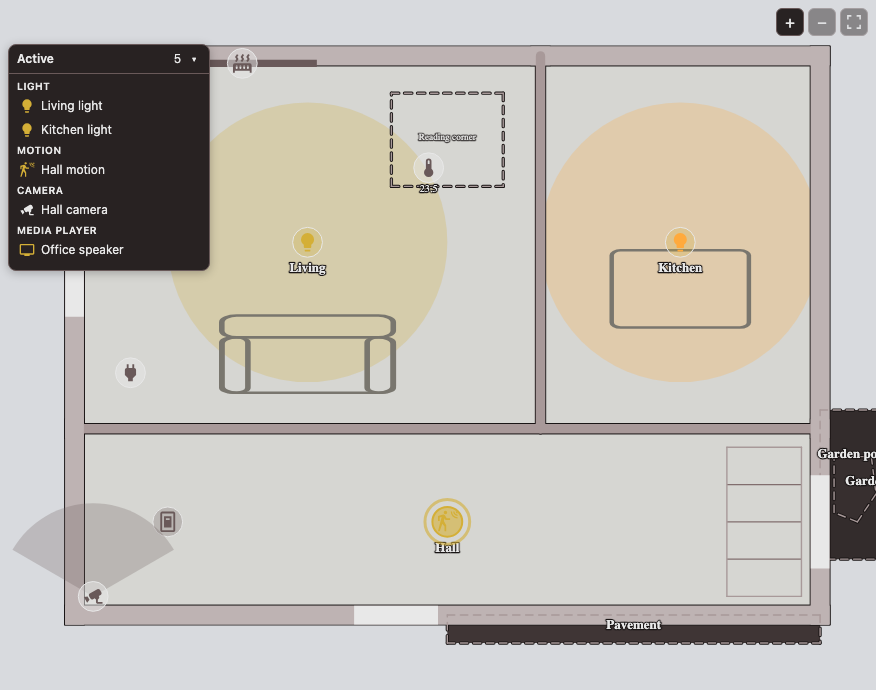
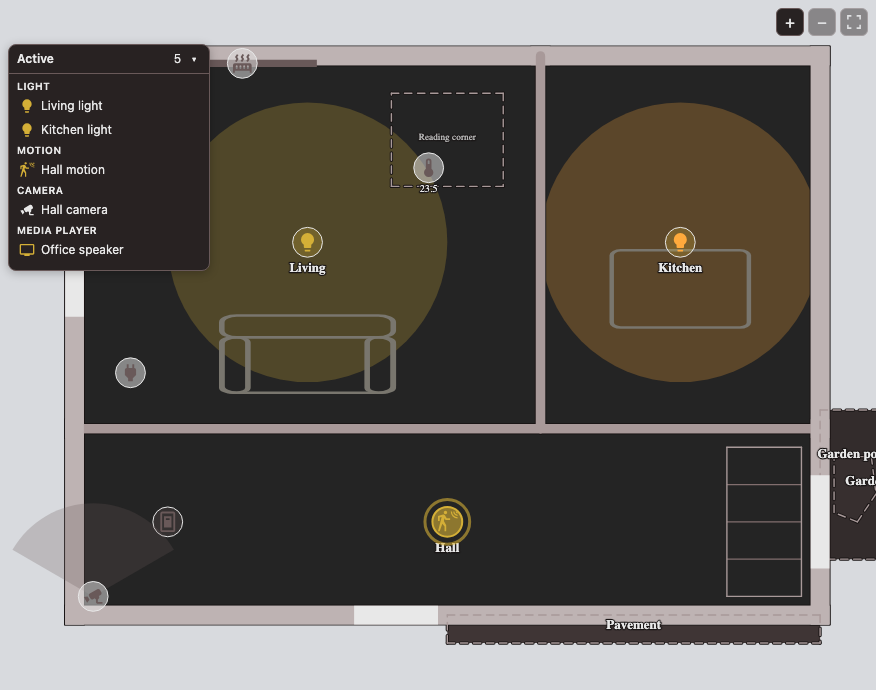
Dark roomEmpty for the four saturated dark themes, add beach-house
a-team, space, cyberpunk and carpenter-brut rendered their unpainted
rooms in the one shared light grey every theme has used since
2026-09-21 — against their own dark, saturated walls it read as a
hole punched through the plan. ThemeRoles gets an optional roomEmpty
override (default unchanged, so every existing theme keeps its
current look); each of the four now sets its own dark shade.

Also adds a thirteenth theme, beach-house: sand base, sea-teal grid,
palm-green accent. A light theme, so the shared grey was never a
problem for it.

docs/SPEC.md, README.md and docs/DECISIONS.md updated in the same
commit; scripts/theme-shots.mjs re-run for all thirteen themes.

diff --git a/src/core/render.ts b/src/core/render.ts
@@ -27,9 +27,9 @@ export interface RenderOpts {
 /** blueprint is the default and the look of the project; midnight is the project's first dark theme (2026-09-21), kept under
  * its own name once blueprint moved on to a new palette; light is the same plan on paper; slate and terminal are the other two
  * role-generated presets; solarized is the bespoke Solarized palette; ha takes its neutrals straight from Home Assistant's own
- * CSS variables; coffee, a-team, space, cyberpunk and carpenter-brut (2026-09-28, Diego's picks) are five more role-generated
- * presets, the same `rolesToTokens` four-colour system as blueprint/slate/terminal. */
-export const THEMES = ["blueprint", "midnight", "light", "slate", "terminal", "solarized", "ha", "coffee", "a-team", "space", "cyberpunk", "carpenter-brut"] as const;
+ * CSS variables; coffee, a-team, space, cyberpunk, carpenter-brut and beach-house (2026-09-28, Diego's picks) are six more
+ * role-generated presets, the same `rolesToTokens` four-colour system as blueprint/slate/terminal. */
+export const THEMES = ["blueprint", "midnight", "light", "slate", "terminal", "solarized", "ha", "coffee", "a-team", "space", "cyberpunk", "carpenter-brut", "beach-house"] as const;
 export type Theme = (typeof THEMES)[number];
 
 /** The `fill` attribute for a room or staircase that carries its own paint: a texture wins over a colour. Both are checked against a fixed list or a strict pattern, because the value goes into an attribute. */
@@ -73,11 +73,19 @@ const SLATE_TOKENS = rolesToTokens({ base: "#9a9a96", fg: "#2b2a27", fgAlpha: .5
 const TERMINAL_TOKENS = rolesToTokens({ base: "#0c1512", fg: "#35d47a", fgAlpha: .5, line: "#35d47a", accent: "#ffb000", dark: true });
 
 // Five more role-generated presets (2026-09-28, Diego's picks), the same four-colour system as the three above.
+// coffee's own base already carries a warm brown across bg/walls, so the default grey `roomEmpty` sits fine against
+// it; a-team/space/cyberpunk/carpenter-brut are dark and far more saturated, and the same fixed light grey read as a
+// hole punched in the plan (Diego, 2026-09-28) - each gets its own dark roomEmpty instead, a shade of its own base.
 const COFFEE_TOKENS = rolesToTokens({ base: "#2b1d14", fg: "#f3e5d0", fgAlpha: .5, line: "#a9713c", accent: "#f2a134", dark: true });
-const A_TEAM_TOKENS = rolesToTokens({ base: "#141414", fg: "#e8e8e8", fgAlpha: .5, line: "#cc1f1f", accent: "#d4af37", dark: true });
-const SPACE_TOKENS = rolesToTokens({ base: "#050814", fg: "#eaf2ff", fgAlpha: .5, line: "#4fd8ff", accent: "#b14aff", dark: true });
-const CYBERPUNK_TOKENS = rolesToTokens({ base: "#0b0014", fg: "#00e5ff", fgAlpha: .5, line: "#ff2bd6", accent: "#f9f002", dark: true });
-const CARPENTER_BRUT_TOKENS = rolesToTokens({ base: "#170406", fg: "#ffd9e8", fgAlpha: .5, line: "#8f1022", accent: "#ff2f6e", dark: true });
+const A_TEAM_TOKENS = rolesToTokens({ base: "#141414", fg: "#e8e8e8", fgAlpha: .5, line: "#cc1f1f", accent: "#d4af37", dark: true, roomEmpty: "#242424" });
+const SPACE_TOKENS = rolesToTokens({ base: "#050814", fg: "#eaf2ff", fgAlpha: .5, line: "#4fd8ff", accent: "#b14aff", dark: true, roomEmpty: "#141b33" });
+const CYBERPUNK_TOKENS = rolesToTokens({ base: "#0b0014", fg: "#00e5ff", fgAlpha: .5, line: "#ff2bd6", accent: "#f9f002", dark: true, roomEmpty: "#22093a" });
+const CARPENTER_BRUT_TOKENS = rolesToTokens({ base: "#170406", fg: "#ffd9e8", fgAlpha: .5, line: "#8f1022", accent: "#ff2f6e", dark: true, roomEmpty: "#2b0a10" });
+
+// beach-house (2026-09-28, Diego's pick): a light theme, sand for the base (bg through walls), sea teal for the
+// measurement line, palm-green as the one accent for anything "on". fg is a driftwood-dark brown-grey, enough
+// contrast on sand without going as stark as pure black ink.
+const BEACH_HOUSE_TOKENS = rolesToTokens({ base: "#e3cd9c", fg: "#3a3226", fgAlpha: .5, line: "#1a7a8a", accent: "#2f9e44", dark: false });
 
 /* Solarized (bespoke, not role-generated - Diego's call, 2026-09-22: real Solarized fidelity matters more here than reuse).
    The dark variant, base03 background, base1 body text; each device type keeps its own Solarized hue rather than collapsing
@@ -130,6 +138,7 @@ export const FLOORPLAN_CSS = `
 :host([data-theme="space"]),:host([data-theme="space"]) .fp,[data-theme="space"]{${SPACE_TOKENS}}
 :host([data-theme="cyberpunk"]),:host([data-theme="cyberpunk"]) .fp,[data-theme="cyberpunk"]{${CYBERPUNK_TOKENS}}
 :host([data-theme="carpenter-brut"]),:host([data-theme="carpenter-brut"]) .fp,[data-theme="carpenter-brut"]{${CARPENTER_BRUT_TOKENS}}
+:host([data-theme="beach-house"]),:host([data-theme="beach-house"]) .fp,[data-theme="beach-house"]{${BEACH_HOUSE_TOKENS}}
 /* A room with its own colour carries a fill attribute; the :not([fill]) rules let it show. The fill room keeps its hatch.
    Each kind also names its own fill as --fp-room-fill, so a later rule can tint the room without ever having to know,
    or replace, the colour underneath (Opus review: the glow and on rules below used to read straight from --fp-glow,

diff --git a/src/core/theme-roles.ts b/src/core/theme-roles.ts
@@ -7,7 +7,10 @@ import type { DeviceType } from "./schema";
  * "live" - on-state devices, the on-room ring, warnings, the primary action button. `dark` picks which end of the base ramp is
  * the background: true puts the darkest shade at the back (paper is `base`, lines are `fg`), false puts the lightest there.
  * `devices` overrides `accent` for specific device types, for a theme that wants its on-state colours to stay distinct instead
- * of collapsing to one; a type left out uses `accent`. */
+ * of collapsing to one; a type left out uses `accent`. `roomEmpty` overrides the "not yet painted" room fill (Diego's original
+ * call, 2026-09-21: the same light grey `#d6d6d2` in every theme); a saturated dark theme needs its own dark shade there
+ * instead, or the plain grey box reads as a hole against the theme's own dark walls (Diego, 2026-09-28). Left out, the
+ * classic grey still applies — only a theme that asks for it deviates. */
 export interface ThemeRoles {
   base: string;
   fg: string;
@@ -16,6 +19,7 @@ export interface ThemeRoles {
   accent: string;
   dark: boolean;
   devices?: Partial<Record<DeviceType, string>>;
+  roomEmpty?: string;
 }
 
 const clamp = (n: number, lo: number, hi: number) => Math.min(hi, Math.max(lo, n));
@@ -81,7 +85,7 @@ export function rolesToTokens(roles: ThemeRoles): string {
   const devFor = (t: DeviceType) => roles.devices?.[t] ?? roles.accent;
   const acCool = roles.devices?.ac ?? roles.accent, acHeat = roles.devices?.ac ?? roles.accent;
   return [
-    `--fp-ink:${roles.fg}`, `--fp-bg:${shades.bg}`, `--fp-room:${shades.room}`, `--fp-room-empty:#d6d6d2`,
+    `--fp-ink:${roles.fg}`, `--fp-bg:${shades.bg}`, `--fp-room:${shades.room}`, `--fp-room-empty:${roles.roomEmpty ?? "#d6d6d2"}`,
     `--fp-garden:${shades.garden}`, `--fp-terrace:${shades.terrace}`, `--fp-pavement:${shades.pavement}`,
     `--fp-wall:${shades.wall}`, `--fp-idle:${shades.idle}`,
     `--fp-on:${roles.accent}`, `--fp-open:${roles.accent}`, `--fp-motion:${devFor("motion")}`, `--fp-heater:${devFor("heater")}`,

diff --git a/src/editor/editor-app.ts b/src/editor/editor-app.ts
@@ -116,7 +116,7 @@ function hitOf(el: Element | null): Hit {
 /** What each theme is called on its chip. `ha` says what it does rather than what it is. */
 const THEME_LABELS: Record<(typeof THEME_VALUES)[number], string> = {
   blueprint: "Blueprint", midnight: "Midnight", light: "Light", slate: "Light Gray", terminal: "Terminal", solarized: "Solarized", ha: "Home Assistant",
-  coffee: "Coffee", "a-team": "A-Team", space: "Space", cyberpunk: "Cyberpunk", "carpenter-brut": "Carpenter Brut",
+  coffee: "Coffee", "a-team": "A-Team", space: "Space", cyberpunk: "Cyberpunk", "carpenter-brut": "Carpenter Brut", "beach-house": "Beach House",
 };
 /** S4.10: the Home Assistant menu's groups, in the order they are shown. */
 const HA_KIND_LABELS: [Labelled["kind"], string][] = [["helper", "Helpers"], ["automation", "Automations"], ["area", "Areas"]];

diff --git a/docs/SPEC.md b/docs/SPEC.md
@@ -338,7 +338,7 @@ floor: ground          # or "all" with a floor switcher
 floors: [ground, first]  # or an ordered list of floor ids; a switcher over just these, first is the default; wins over `floor`
 fade: 300              # motion fade, seconds
 room_glow: true
-theme: blueprint       # blueprint (default), midnight, light, slate, terminal, solarized, ha, coffee, a-team, space, cyberpunk, or carpenter-brut
+theme: blueprint       # blueprint (default), midnight, light, slate, terminal, solarized, ha, coffee, a-team, space, cyberpunk, carpenter-brut, or beach-house
 zoom: true             # pinch, drag, double-tap, Ctrl/Cmd+wheel, +/−/fit buttons; "wheel" also zooms on a plain wheel; false fixes the plan
 night: auto            # auto (default: from the sun), on, off
 sun: sun.sun           # the entity night: auto reads
@@ -459,6 +459,13 @@ card. The editor is unchanged — it always passed its own zoom, never `1`.
 | `space` | near-black navy | starlight white | cyan | violet |
 | `cyberpunk` | near-black violet | cyan | magenta | acid yellow |
 | `carpenter-brut` | near-black maroon | pale pink | dark crimson | hot pink |
+| `beach-house` | sand (light) | driftwood brown | sea teal | palm green |
+
+A theme's role definition may also override `roomEmpty`, the fill an unpainted room gets (below): left out, every theme
+shares the same light grey; `a-team`, `space`, `cyberpunk` and `carpenter-brut` each set their own dark shade instead, since
+that fixed light grey read as a hole punched through their own dark, saturated walls (Diego, 2026-09-28). `coffee` and
+`beach-house` keep the shared default — coffee's own base already warms the plan enough around it, and beach-house is a
+light theme like `light`/`slate`, where the shared grey was never the problem.
 
 `solarized` is bespoke, not role-generated: the real Solarized dark palette (base03 ground through base3 linework, its eight accent hues), each device type kept in its own Solarized colour rather than collapsed to one accent — Diego's call, 2026-09-22, real Solarized fidelity over reuse.
 
@@ -590,18 +597,18 @@ card. The editor is unchanged — it always passed its own zoom, never `1`.
   On a huge floor the step grows to 100 or 500 cm so no axis needs more than
   400 lines. A chip in the View menu, next to Grid; kept in the browser, not
   in the layout, and never an undo step.
-- Theme (S1.53, reworked S2.12, role system added S4.21, five more added
+- Theme (S1.53, reworked S2.12, role system added S4.21, six more added
   2026-09-28): every colour in `FLOORPLAN_CSS` is a `--fp-*` custom property.
-  Twelve themes: **Blueprint**, the default and the base selector,
+  Thirteen themes: **Blueprint**, the default and the base selector,
   **Midnight** (blueprint's old palette, kept under its own name), **Light**,
   the paper-and-ink set, **Slate**, **Terminal** and **Solarized** (see
   "Role-generated themes" above), **Home Assistant**, whose neutrals are
   `var(--card-background-color)`, `var(--secondary-background-color)`,
   `var(--primary-text-color)` and `var(--secondary-text-color)`, each with
   midnight's plain hexes as its fallback (dark when `data-mode="dark"`), and
-  five more role-generated presets, Diego's picks: **Coffee**, **A-Team**,
-  **Space**, **Cyberpunk** and **Carpenter Brut** (see "Role-generated
-  themes" above for their base/foreground/line/accent). A `data-theme`
+  six more role-generated presets, Diego's picks: **Coffee**, **A-Team**,
+  **Space**, **Cyberpunk**, **Carpenter Brut** and **Beach House** (see
+  "Role-generated themes" above for their base/foreground/line/accent). A `data-theme`
   attribute, on the
   editor's own host or on one plan's root, picks one; none means blueprint. The
   OS colour scheme is not read by the card or the plan. The standalone editor

diff --git a/docs/DECISIONS.md b/docs/DECISIONS.md
@@ -2,6 +2,32 @@
 
 Newest first. A change supersedes; nothing is edited.
 
+## 2026-09-28: `roomEmpty` role override, and a sixth theme, beach-house
+
+The field problem: `a-team`, `space`, `cyberpunk` and `carpenter-brut`
+(below) all render their unpainted rooms in the one fixed light grey every
+theme has shared since 2026-09-21 (`--fp-room-empty`, `#d6d6d2`) — against
+their own dark, saturated walls it read as a hole punched through the plan,
+not a neutral "not yet painted" room (Diego, field review). `terminal` and
+`blueprint` are dark too but never had this complaint; `coffee`'s own warm
+base carries the plan enough that the shared grey still sits fine there.
+
+Decided: `ThemeRoles` (`src/core/theme-roles.ts`) gets an optional
+`roomEmpty` field, defaulting to the classic `#d6d6d2` so every existing
+theme is unchanged. `a-team`, `space`, `cyberpunk` and `carpenter-brut` each
+now set their own dark shade of their own base instead
+(`src/core/render.ts`). `coffee` keeps the default, deliberately, and so do
+every light theme.
+
+Also decided, same request: a sixth new theme, `beach-house` — sand for the
+base (light, not dark), sea teal for the measurement line, palm green as the
+accent. It is a light theme, so the shared `roomEmpty` grey is not a problem
+for it, same as `light`/`slate`.
+
+`docs/SPEC.md`'s theme count, config comment, role table and prose are
+updated in the same commit as the code, and `scripts/theme-shots.mjs` is
+re-run for all thirteen themes.
+
 ## 2026-09-28: five more role-generated themes, Diego's picks
 
 Decided: add `coffee`, `a-team`, `space`, `cyberpunk` and `carpenter-brut` to

diff --git a/README.md b/README.md
@@ -50,7 +50,7 @@ Assistant every day.
 
 ## Colours, themes and customization
 
-Twelve built-in themes, picked from the card's Edit-card form or written as
+Thirteen built-in themes, picked from the card's Edit-card form or written as
 `theme:` in YAML. `ha` follows your Home Assistant dashboard's own theme;
 the rest are fixed palettes.
 
@@ -69,6 +69,10 @@ the rest are fixed palettes.
 | `space` | `cyberpunk` | `carpenter-brut` |
 |---|---|---|
 | ![Space theme: near-black navy plan, cyan grid, violet accents.](docs/img/themes/space.png) | ![Cyberpunk theme: near-black violet plan, cyan text, magenta grid, acid-yellow accents.](docs/img/themes/cyberpunk.png) | ![Carpenter Brut theme: near-black maroon plan, crimson grid, hot-pink accents.](docs/img/themes/carpenter-brut.png) |
+
+| `beach-house` |
+|---|
+| ![Beach House theme: sand-coloured plan, sea-teal grid, palm-green accents.](docs/img/themes/beach-house.png) |
 
 Every room keeps its own paint (colour or texture) in every theme — only the
 grid, walls and device icons change. `blueprint`, `slate`, `terminal`,
